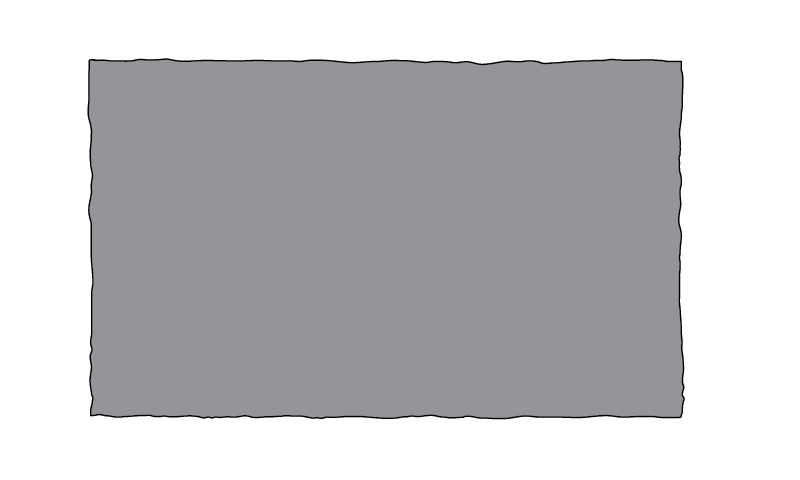
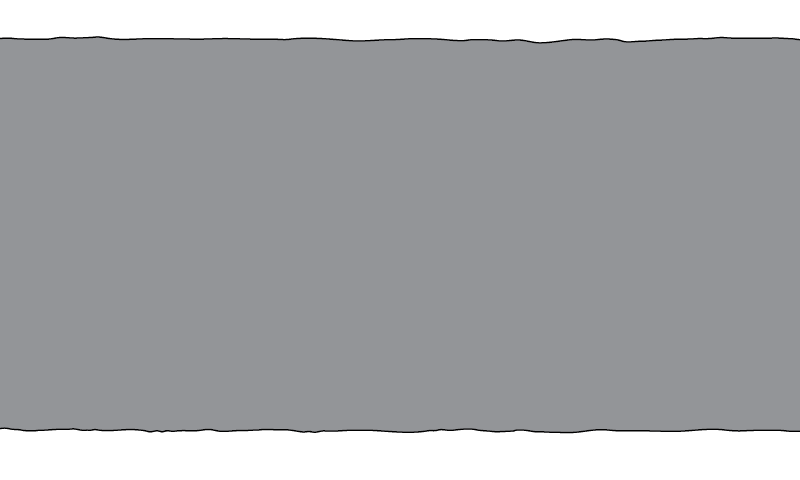
Add racing minigame background, background environment and line textures #249

Changed region(s): [[0.0, 0.0625, 1.0, 0.9062]]

diff --git a/x-cars/src/cz/cuni/mff/xcars/miniGames/RaceMinigame.java b/x-cars/src/cz/cuni/mff/xcars/miniGames/RaceMinigame.java
@@ -33,6 +33,7 @@ public final class RaceMinigame extends Minigame {
 	private String ENVIRONMENT_BACKGROUND_TEXTURE = Constants.minigames.ENVIRONMENT_BACKGROUND_TEXTURE;
 	private String ENVIRONMENT_FOREGROUND_TEXTURE = Constants.minigames.ENVIRONMENT_FOREGROUND_TEXTURE;
 	private float ENVIRONMENT_FOREGROUND_OFFSET = Constants.minigames.ENVIRONMENT_FOREGROUND_OFFSET;
+	private float ENVIRONMENT_BACKGROUND_OFFSET = Constants.minigames.ENVIRONMENT_BACKGROUND_OFFSET;
 
 	private static final float MIN_SPEED_ADDITION = Constants.minigames.MIN_SPEED_ADDITION;
 	private static final float MAX_SPEED_ADDITION = Constants.minigames.MAX_SPEED_ADDITION;
@@ -177,15 +178,14 @@ public final class RaceMinigame extends Minigame {
 	private void generateEnvironmentForeground() {
 		this.environmentForeground = new LinkedList<ScreenAdaptiveImage>();
 		TextureRegion foregroundTexture = Xcars.getInstance().assets.getGraphics(ENVIRONMENT_FOREGROUND_TEXTURE);
-		float positionY = Constants.dialog.DIALOG_WORLD_Y_OFFSET - foregroundTexture.getRegionHeight()
-				+ ENVIRONMENT_FOREGROUND_OFFSET;
+		float positionY = ENVIRONMENT_FOREGROUND_OFFSET;
 		generateDeque(this.environmentForeground, foregroundTexture, positionY, false);
 	}
 
 	private void generateEnvironmentBackground() {
 		this.environmentBackground = new LinkedList<ScreenAdaptiveImage>();
 		TextureRegion backgroundTexture = Xcars.getInstance().assets.getGraphics(ENVIRONMENT_BACKGROUND_TEXTURE);
-		float positionY = Constants.dialog.DIALOG_WORLD_Y_OFFSET + Constants.dialog.DIALOG_WORLD_HEIGHT;
+		float positionY = Constants.WORLD_HEIGHT - backgroundTexture.getRegionHeight() + ENVIRONMENT_BACKGROUND_OFFSET;
 		generateDeque(this.environmentBackground, backgroundTexture, positionY, true);
 	}
 
@@ -334,23 +334,6 @@ public final class RaceMinigame extends Minigame {
 		this.state = States.LEAVING_STATE;
 	}
 
-	@Override
-	public void draw(SpriteBatch batch) {
-		super.draw(batch);
-		batch.begin();
-		for (int i = 0; i < cars.length; i++) {
-			for (GameObject car : cars[i]) {
-				car.draw(batch);
-			}
-		}
-		this.car.draw(batch);
-		// Draws foreground manually to be up
-		for (ScreenAdaptiveImage foreground : environmentForeground) {
-			foreground.draw(batch, 1);
-		}
-		batch.end();
-	}
-
 	public enum States {
 		BEGINNING_STATE, DRIVING_STATE, LEAVING_STATE;
 	}
@@ -419,6 +402,28 @@ public final class RaceMinigame extends Minigame {
 	}
 
 	@Override
+	public void draw(SpriteBatch batch) {
+		super.draw(batch);
+		batch.begin();
+		for (int i = 0; i < cars.length; i++) {
+			for (GameObject car : cars[i]) {
+				car.draw(batch);
+			}
+		}
+		this.car.draw(batch);
+		// Draws foreground manually to be up
+		for (ScreenAdaptiveImage foreground : environmentForeground) {
+			foreground.draw(batch, 1);
+		}
+		batch.end();
+
+		// Redraw diagnostics because of foreground
+		if (Debug.DEBUG) {
+			DrawDiagnostics();
+		}
+	}
+
+	@Override
 	protected void drawBackGroundTexture(SpriteBatch batch) {
 		batch.begin();
 		this.backgroundTexture.draw(batch, 0, 0, Constants.WORLD_WIDTH, Constants.WORLD_HEIGHT);
@@ -433,16 +438,14 @@ public final class RaceMinigame extends Minigame {
 			super.DrawDiagnostics();
 
 			shapeRenderer.begin(ShapeType.Line);
-			float width = 2.f;
+			float width = 1.f;
 			shapeRenderer.setColor(0.5f, 0, 0, 1);
-
 			// Out of world
 			shapeRenderer.rectLine(0, Constants.dialog.DIALOG_WORLD_Y_OFFSET + Constants.dialog.DIALOG_WORLD_HEIGHT,
 					Constants.WORLD_WIDTH, Constants.dialog.DIALOG_WORLD_Y_OFFSET
 							+ Constants.dialog.DIALOG_WORLD_HEIGHT, width);
 			shapeRenderer.rectLine(0, Constants.dialog.DIALOG_WORLD_Y_OFFSET, Constants.WORLD_WIDTH,
 					Constants.dialog.DIALOG_WORLD_Y_OFFSET, width);
-
 			shapeRenderer.end();
 		}
 	}

diff --git a/x-cars/src/cz/cuni/mff/xcars/constants/Minigames.java b/x-cars/src/cz/cuni/mff/xcars/constants/Minigames.java
@@ -125,7 +125,8 @@ public final class Minigames {
 	public final String RACE_MINIGAME_LINE_TEXTURE = "minigames/Race/roadLine";
 	public final String ENVIRONMENT_BACKGROUND_TEXTURE = "minigames/Race/environmentBackground";
 	public final String ENVIRONMENT_FOREGROUND_TEXTURE = "minigames/Race/environmentForeground";
-	public final float ENVIRONMENT_FOREGROUND_OFFSET = 20;
+	public final float ENVIRONMENT_FOREGROUND_OFFSET = -20;
+	public final float ENVIRONMENT_BACKGROUND_OFFSET = 20;
 	public final float MIN_SPEED_ADDITION = 100;
 	public final float MAX_SPEED_ADDITION = 300;
 	public final float MIN_CAR_DISTANCE = 100;

diff --git a/x-cars/src/cz/cuni/mff/xcars/debug/Debug.java b/x-cars/src/cz/cuni/mff/xcars/debug/Debug.java
@@ -25,7 +25,7 @@ public final class Debug {
 	public static final boolean drawWayPoints = false;
 	public static final boolean drawFPSDistribution = false;
 	// Draw bounding circles of all game Objects
-	public static final boolean drawBoundingBoxes = true;
+	public static final boolean drawBoundingBoxes = false;
 	// Maximal distance from object where it is possible to activate them
 	public static final boolean drawMaxTouchableArea = true;
 	// Area where buttons can be generated in SelectScreenBase typed screen
